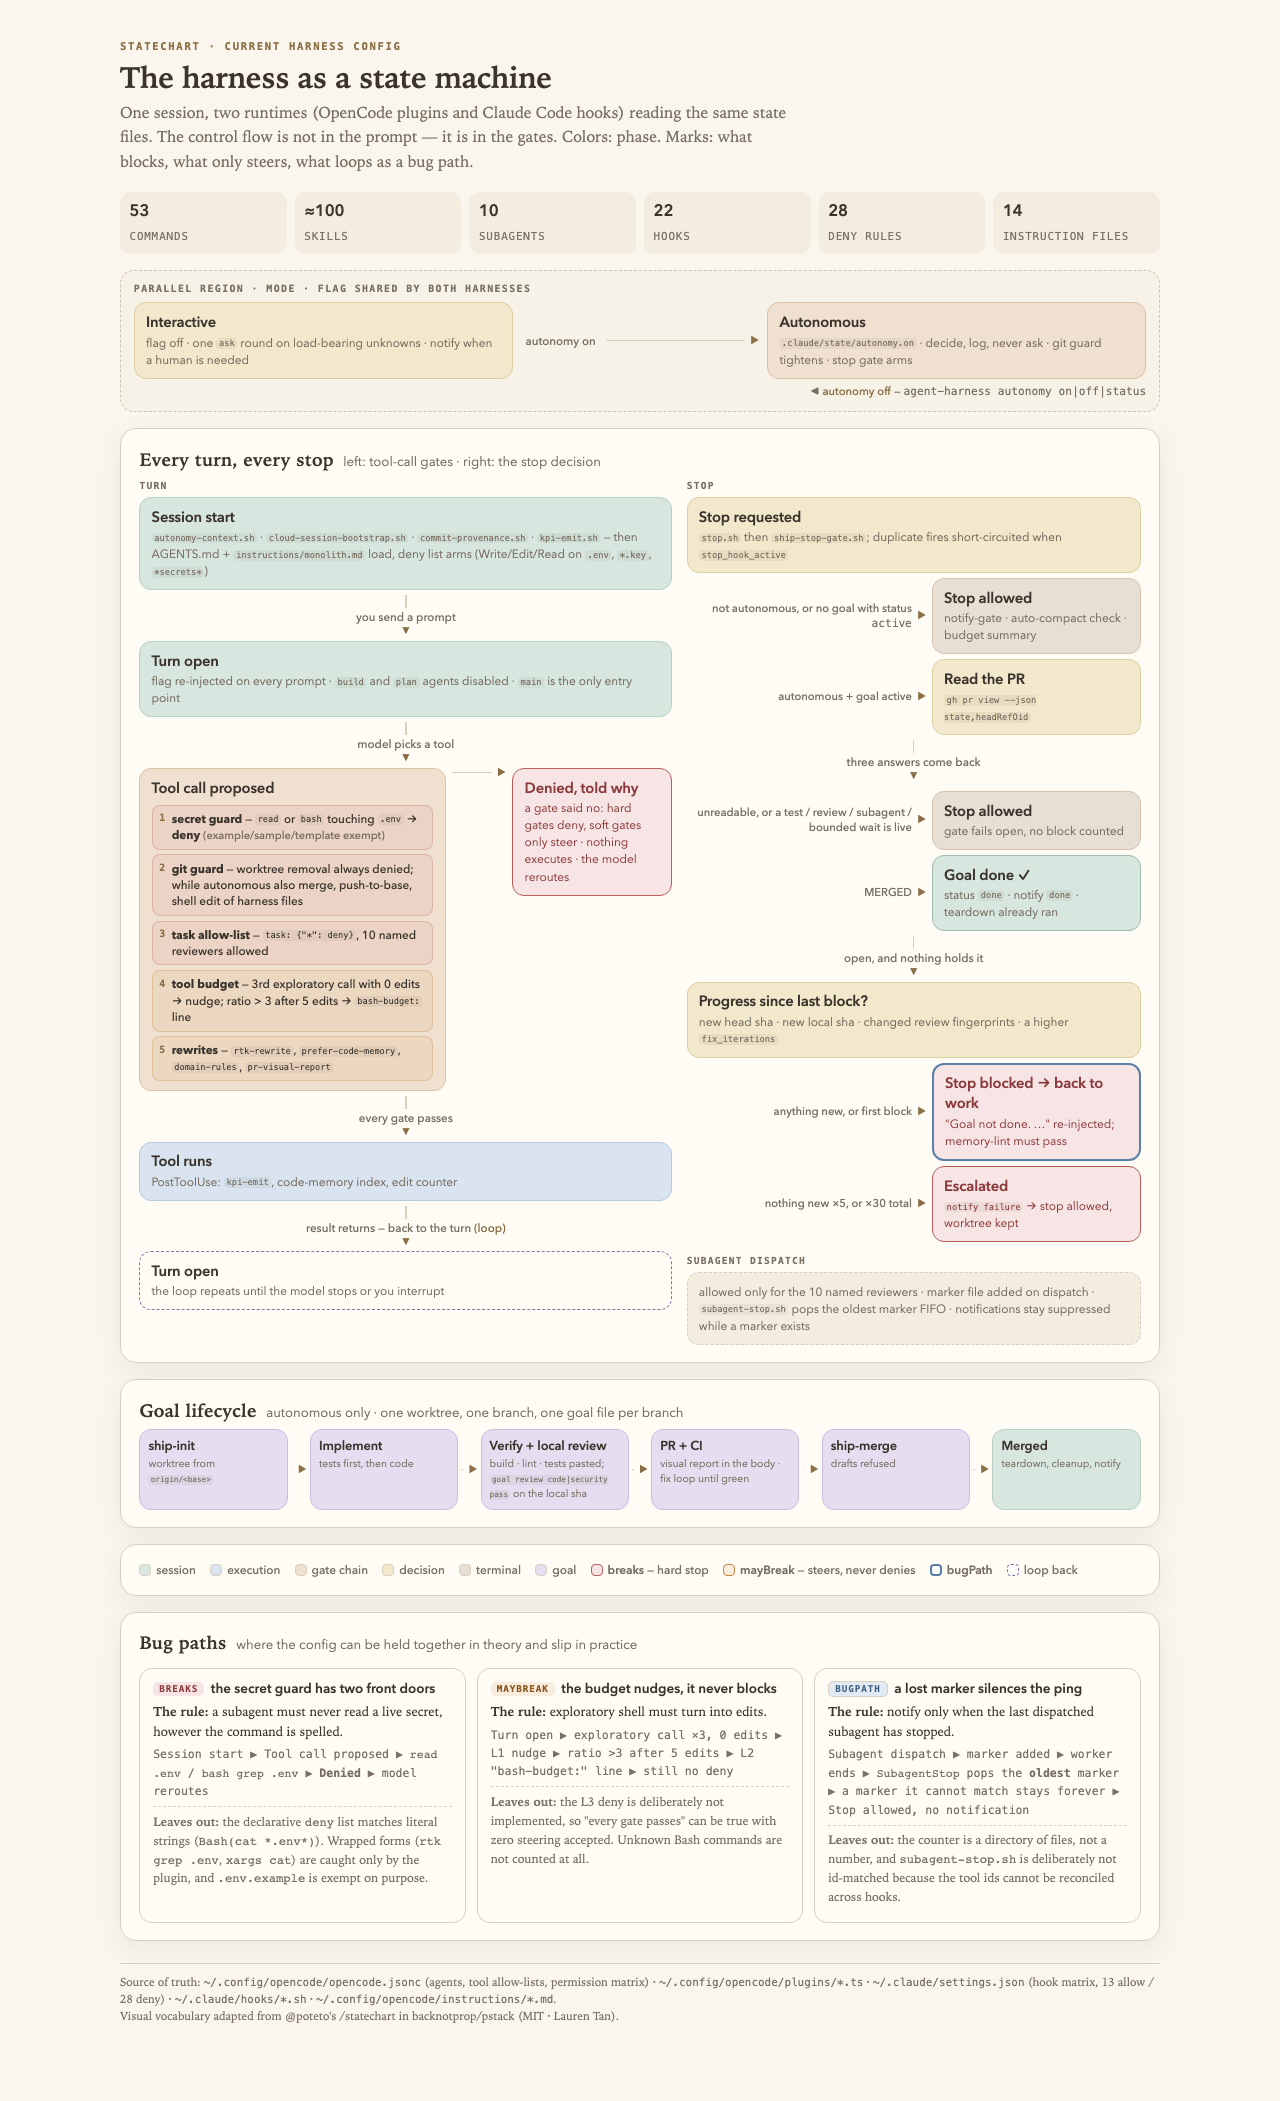
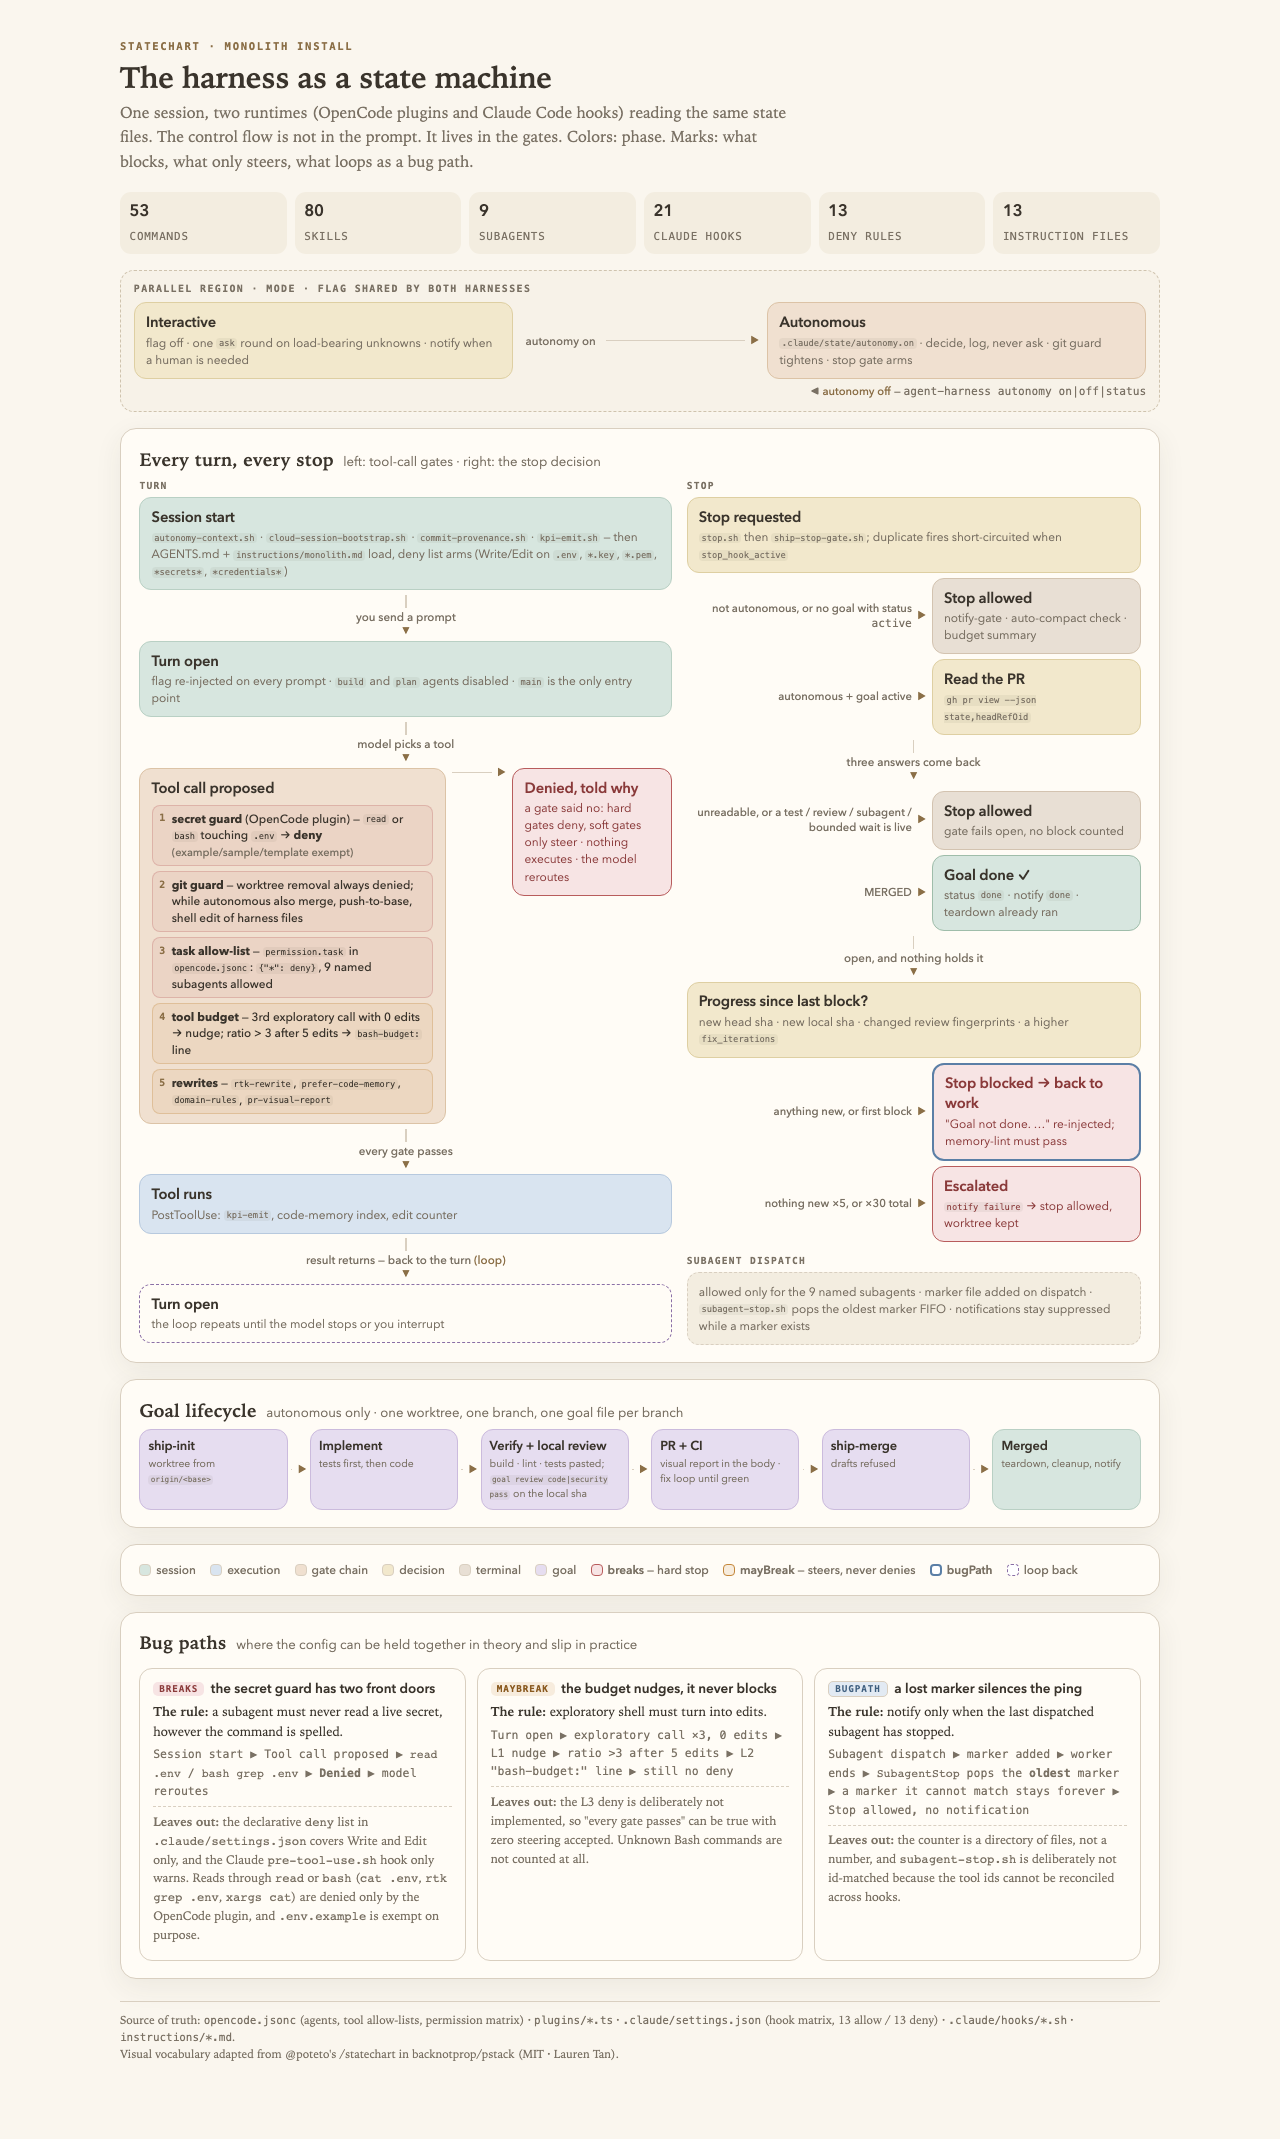
docs(readme): match the statechart to what the repo ships
Recount stats from the repo, label the chart Monolith, scope the read
deny to the OpenCode plugin, use repo paths, add the pstack MIT notice.

diff --git a/docs/harness/harness-config.html b/docs/harness/harness-config.html
@@ -176,17 +176,17 @@ h2 { font-size: 1.12rem; margin: 0 0 .15rem; font-weight: 600; letter-spacing: .
 </head>
 <body>
 
-  <p class="eyebrow">statechart · current harness config</p>
+  <p class="eyebrow">statechart · Monolith install</p>
   <h1>The harness as a state machine</h1>
-  <p class="sub">One session, two runtimes (OpenCode plugins and Claude Code hooks) reading the same state files. The control flow is not in the prompt — it is in the gates. Colors: phase. Marks: what blocks, what only steers, what loops as a bug path.</p>
+  <p class="sub">One session, two runtimes (OpenCode plugins and Claude Code hooks) reading the same state files. The control flow is not in the prompt. It lives in the gates. Colors: phase. Marks: what blocks, what only steers, what loops as a bug path.</p>
 
   <div class="stats">
     <div class="stat"><b>53</b><span>commands</span></div>
-    <div class="stat"><b>≈100</b><span>skills</span></div>
-    <div class="stat"><b>10</b><span>subagents</span></div>
-    <div class="stat"><b>22</b><span>hooks</span></div>
-    <div class="stat"><b>28</b><span>deny rules</span></div>
-    <div class="stat"><b>14</b><span>instruction files</span></div>
+    <div class="stat"><b>80</b><span>skills</span></div>
+    <div class="stat"><b>9</b><span>subagents</span></div>
+    <div class="stat"><b>21</b><span>Claude hooks</span></div>
+    <div class="stat"><b>13</b><span>deny rules</span></div>
+    <div class="stat"><b>13</b><span>instruction files</span></div>
   </div>
 
   <!-- MODE -->
@@ -226,7 +226,7 @@ h2 { font-size: 1.12rem; margin: 0 0 .15rem; font-weight: 600; letter-spacing: .
 
         <div class="state ph-teal">
           <span class="n">Session start</span>
-          <span class="d"><code>autonomy-context.sh</code> · <code>cloud-session-bootstrap.sh</code> · <code>commit-provenance.sh</code> · <code>kpi-emit.sh</code> — then AGENTS.md + <code>instructions/monolith.md</code> load, deny list arms (Write/Edit/Read on <code>.env</code>, <code>*.key</code>, <code>*secrets*</code>)</span>
+          <span class="d"><code>autonomy-context.sh</code> · <code>cloud-session-bootstrap.sh</code> · <code>commit-provenance.sh</code> · <code>kpi-emit.sh</code> — then AGENTS.md + <code>instructions/monolith.md</code> load, deny list arms (Write/Edit on <code>.env</code>, <code>*.key</code>, <code>*.pem</code>, <code>*secrets*</code>, <code>*credentials*</code>)</span>
         </div>
 
         <div class="edge"><span class="eline"></span><span class="elabel">you send a prompt</span><span class="earrow">▼</span></div>
@@ -242,9 +242,9 @@ h2 { font-size: 1.12rem; margin: 0 0 .15rem; font-weight: 600; letter-spacing: .
           <div class="state ph-orange" style="flex:1 1 60%">
             <span class="n">Tool call proposed</span>
             <div class="gates">
-              <div class="gate hard"><span class="tag">1</span><span><b>secret guard</b> — <code>read</code> or <code>bash</code> touching <code>.env</code> → <b>deny</b> <small>(example/sample/template exempt)</small></span></div>
+              <div class="gate hard"><span class="tag">1</span><span><b>secret guard</b> (OpenCode plugin) — <code>read</code> or <code>bash</code> touching <code>.env</code> → <b>deny</b> <small>(example/sample/template exempt)</small></span></div>
               <div class="gate hard"><span class="tag">2</span><span><b>git guard</b> — worktree removal always denied; while autonomous also merge, push-to-base, shell edit of harness files</span></div>
-              <div class="gate hard"><span class="tag">3</span><span><b>task allow-list</b> — <code>task: {"*": deny}</code>, 10 named reviewers allowed</span></div>
+              <div class="gate hard"><span class="tag">3</span><span><b>task allow-list</b> — <code>permission.task</code> in <code>opencode.jsonc</code>: <code>{"*": deny}</code>, 9 named subagents allowed</span></div>
               <div class="gate soft"><span class="tag">4</span><span><b>tool budget</b> — 3rd exploratory call with 0 edits → nudge; ratio &gt; 3 after 5 edits → <code>bash-budget:</code> line</span></div>
               <div class="gate soft"><span class="tag">5</span><span><b>rewrites</b> — <code>rtk-rewrite</code>, <code>prefer-code-memory</code>, <code>domain-rules</code>, <code>pr-visual-report</code></span></div>
             </div>
@@ -330,7 +330,7 @@ h2 { font-size: 1.12rem; margin: 0 0 .15rem; font-weight: 600; letter-spacing: .
 
         <div class="stage-lbl" style="margin-top:.8rem">subagent dispatch</div>
         <div class="state" style="background:var(--bg-soft); border-style:dashed">
-          <span class="d">allowed only for the 10 named reviewers · marker file added on dispatch · <code>subagent-stop.sh</code> pops the oldest marker FIFO · notifications stay suppressed while a marker exists</span>
+          <span class="d">allowed only for the 9 named subagents · marker file added on dispatch · <code>subagent-stop.sh</code> pops the oldest marker FIFO · notifications stay suppressed while a marker exists</span>
         </div>
       </div>
     </div>
@@ -382,7 +382,7 @@ h2 { font-size: 1.12rem; margin: 0 0 .15rem; font-weight: 600; letter-spacing: .
         <h3><span class="chip deny">breaks</span> the secret guard has two front doors</h3>
         <p><b>The rule:</b> a subagent must never read a live secret, however the command is spelled.</p>
         <p class="path">Session start ▶ Tool call proposed ▶ <code>read .env</code> / <code>bash grep .env</code> ▶ <b>Denied</b> ▶ model reroutes</p>
-        <p class="leaves"><b>Leaves out:</b> the declarative <code>deny</code> list matches literal strings (<code>Bash(cat *.env*)</code>). Wrapped forms (<code>rtk grep .env</code>, <code>xargs cat</code>) are caught only by the plugin, and <code>.env.example</code> is exempt on purpose.</p>
+        <p class="leaves"><b>Leaves out:</b> the declarative <code>deny</code> list in <code>.claude/settings.json</code> covers Write and Edit only, and the Claude <code>pre-tool-use.sh</code> hook only warns. Reads through <code>read</code> or <code>bash</code> (<code>cat .env</code>, <code>rtk grep .env</code>, <code>xargs cat</code>) are denied only by the OpenCode plugin, and <code>.env.example</code> is exempt on purpose.</p>
       </div>
 
       <div class="bug">
@@ -403,9 +403,15 @@ h2 { font-size: 1.12rem; margin: 0 0 .15rem; font-weight: 600; letter-spacing: .
   </section>
 
   <p class="foot">
-    Source of truth: <code>~/.config/opencode/opencode.jsonc</code> (agents, tool allow-lists, permission matrix) · <code>~/.config/opencode/plugins/*.ts</code> · <code>~/.claude/settings.json</code> (hook matrix, 13 allow / 28 deny) · <code>~/.claude/hooks/*.sh</code> · <code>~/.config/opencode/instructions/*.md</code>.<br />
+    Source of truth: <code>opencode.jsonc</code> (agents, tool allow-lists, permission matrix) · <code>plugins/*.ts</code> · <code>.claude/settings.json</code> (hook matrix, 13 allow / 13 deny) · <code>.claude/hooks/*.sh</code> · <code>instructions/*.md</code>.<br />
     Visual vocabulary adapted from @poteto's /statechart in backnotprop/pstack (MIT · Lauren Tan).
   </p>
+<!--
+MIT License — Copyright (c) 2026 Lauren Tan
+Permission notice from https://github.com/backnotprop/pstack/blob/main/LICENSE
+must accompany substantial portions of the Software (including the mark/phase
+color system adapted from skills/statechart/references/render.md).
+-->
 
 </body>
 </html>

diff --git a/README.md b/README.md
@@ -122,13 +122,13 @@ Mêmes rails sur OpenCode, Claude Code et Cursor. Conductor délègue. Monolith 
 
 [Open the statechart](docs/harness/harness-config.html). Visual vocabulary adapted from @poteto's /statechart in backnotprop/pstack (MIT · Lauren Tan).
 
-Control flow lives in the gates, not in the prompt. The secret guard, the git guard, the task allow-list, and the tool budget are plugins on OpenCode and hooks on Claude Code, reading `opencode.jsonc`, `.claude/settings.json`, and `.claude/state/`. A hard gate denies and the model reroutes. A soft gate only steers. Autonomous mode adds the goal lifecycle: one worktree, one branch, one goal file, and a stop gate that blocks until the PR merges or the run escalates. The last panel lists three places where the config holds together in theory and slips in practice.
+The chart follows a Monolith install. Control flow lives in the gates, not in the prompt. On OpenCode the secret guard, the git guard, and the tool budget are plugins. On Claude Code the git guard and the tool budget are hooks, and the secret guard is the `permissions.deny` list in `.claude/settings.json`, which covers Write and Edit only. The subagent allow-list is the `permission.task` block in `opencode.jsonc`. Autonomy state lives in `.claude/state/`. A hard gate denies and the model reroutes. A soft gate only steers. Autonomous mode adds the goal lifecycle: one worktree, one branch, one goal file, and a stop gate that blocks until the PR merges or the run escalates. The last panel lists three places where the config holds together in theory and slips in practice.
 
 <a id="machine-fr"></a>
 
 ### Le harness comme machine à états
 
-Le schéma et la [page HTML](docs/harness/harness-config.html) suivent une session entière : démarrage, appel d'outil, arrêt, puis le cycle d'un objectif en mode autonome. Les gardes décident. Un garde dur refuse et le modèle change de route. Un garde souple ne fait qu'aiguiller. Le vocabulaire visuel est adapté de `/statechart` de @poteto dans backnotprop/pstack (MIT, Lauren Tan).
+Le schéma suit une installation Monolith. Avec la [page HTML](docs/harness/harness-config.html), il suit une session entière : démarrage, appel d'outil, arrêt, puis le cycle d'un objectif en mode autonome. Les gardes décident. Un garde dur refuse et le modèle change de route. Un garde souple ne fait qu'aiguiller. Le vocabulaire visuel est adapté de `/statechart` de @poteto dans backnotprop/pstack (MIT, Lauren Tan).
 
 ## On this page
 
